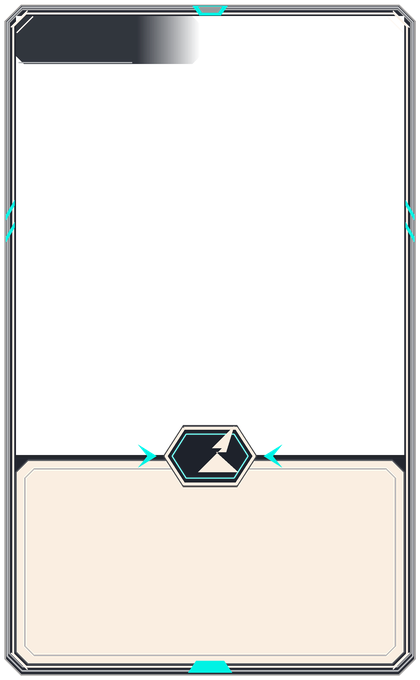
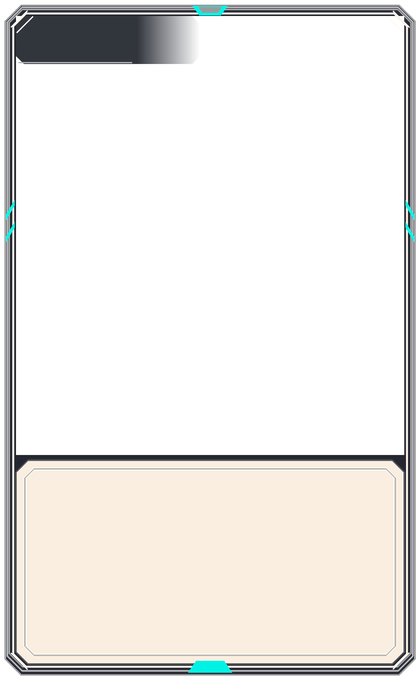
feat(ui): refine card emblems, lock and price badge
验证：Godot 资源导入与实机截图通过，八包商店及图鉴徽记核对通过。卡面 25 项、UI 样式 148 项、卡牌说明 232 项均通过，商店布局和交互专项通过。

Changed region(s): [[0.3405, 0.6176, 0.681, 0.7412]]

diff --git a/tools/gen_card_frame_v3.py b/tools/gen_card_frame_v3.py
@@ -14,7 +14,7 @@
 产出（v3.1 · 2026-11-11 细修）：
   art/2d/ui/ui_card_plate_v3.png     420×680
   art/2d/ui/ui_card_edge_v3_{1,2,3}.png  420×680（三档线宽 = 稀有度第二通道）
-  art/2d/ui/ui_card_cost_v3.png      110×52
+  art/2d/ui/ui_card_cost_v3.png      120×50
   art/2d/ui/ui_card_badge_v3.png     388×40（194×20 逻辑，横线贯穿面板）
   art/_review/card-redesign-baseline-v3.png   基准合成效果图（不含文字进资源）
   art/_review/card-redesign-thumbs-v3.png     10% / 25% 缩略图测试接触表
@@ -29,6 +29,17 @@ UI_DIR = os.path.join(ROOT, "art", "2d", "ui")
 REVIEW_DIR = os.path.join(ROOT, "art", "_review")
 FONT_DIR = os.path.join(ROOT, "assets", "fonts")
 CARD_DIR = os.path.join(ROOT, "art", "2d", "cards")
+CARD_REFERENCE = os.path.join(ROOT, "output", "imagegen", "arrow-card-redesign-preview.png")
+PACK_BADGE_COLORS = {
+    "core": "#54EEE7",
+    "cinder": "#FF8059",
+    "rime": "#65E4F4",
+    "pierce": "#FFD670",
+    "arc": "#AD94FF",
+    "sunder": "#F670A1",
+    "hex": "#62C4B9",
+    "true": "#FF637B",
+}
 
 # ---------------------------------------------------------------------------
 # 色板（design/art/card-redesign-2026-11-11.md §3，唯一来源）
@@ -102,6 +113,20 @@ def down(img, size=(OUT_W, OUT_H)):
     return img.resize(size, Image.LANCZOS)
 
 
+def reference_emblem(bounds, outline, clear_number=False):
+    """提取已确认的 AI 预览元件，裁掉周围插画。"""
+    with Image.open(CARD_REFERENCE) as reference:
+        art = reference.crop(bounds).convert("RGBA")
+    x, y = bounds[:2]
+    mask = Image.new("L", art.size)
+    ImageDraw.Draw(mask).polygon([(px - x, py - y) for px, py in outline], fill=255)
+    if clear_number:
+        # 抹掉示例价格，数字由 Godot 实时绘制。
+        ImageDraw.Draw(art).rectangle((133, 22, 221, 87), fill=(33, 35, 44, 255))
+    art.putalpha(mask)
+    return art
+
+
 # ---------------------------------------------------------------------------
 # 1. 卡框底板：外框 + 分区 + 中缝六边形 + 底部箭头（插画区保持透明）
 # ---------------------------------------------------------------------------
@@ -148,24 +173,45 @@ def gen_plate():
     stroke_poly(d, band, FRAME, 0.8, alpha=195)
     stroke_poly(d, cut_rect(12.4, 234.4, 185.2, 93.2, 4.6), FRAME, 0.6, alpha=90)
 
-    # ---- 7. 中缝六边形徽章（跨分区线）+ 两侧青箭头 ----
-    hx = hex_h(83, 214, 44, 28, 9)
-    fill_poly(d, hex_h(81.5, 212.5, 47, 31, 10), BLACK, alpha=200)  # 暗色垫底，隔开插画
-    fill_poly(d, hx, INK)
-    stroke_poly(d, hx, CREAM, 1.5, alpha=245)
-    stroke_poly(d, hex_h(86, 217, 38, 22, 7), CYAN, 0.6, alpha=140)
-    # 简化箭头（右上方指向）
-    arrow = [(99, 236), (111, 224), (106, 224), (117, 213),
-             (113, 226), (108, 226), (119, 236)]
-    fill_poly(d, arrow, CREAM)
-    # 两侧青箭头（参考图中缝处指向徽章的小箭头）
-    fill_poly(d, [(69.0, 222.2), (78.2, 228.0), (69.0, 233.8), (73.6, 228.0)], CYAN)
-    fill_poly(d, [(141.0, 222.2), (131.8, 228.0), (141.0, 233.8), (136.4, 228.0)], CYAN)
-
-    # ---- 8. 底部青色刻口（参考图跨在「面板下沿 / 框带」之间的梯形）----
+    # ---- 7. 底部青色刻口（参考图跨在「面板下沿 / 框带」之间的梯形）----
     fill_poly(d, [(98.0, 330.4), (112.0, 330.4), (116.0, 336.2), (94.0, 336.2)], CYAN)
     stroke_poly(d, cut_rect(2.5, 2.5, 205, 335, 8), BLACK, 0.5, alpha=120)
     return down(im)
+
+
+def gen_pack_badge(pack_id):
+    """复用预览徽章外壳和游戏内卡包图标，输出 2x 接缝徽记。"""
+    emblem = reference_emblem(
+        (389, 1008, 615, 1107),
+        [(389, 1060), (443, 1010), (553, 1010), (614, 1059),
+         (556, 1105), (451, 1105)],
+    )
+    if pack_id != "core":
+        color = rgba(PACK_BADGE_COLORS[pack_id])
+        for y in range(emblem.height):
+            for x in range(emblem.width):
+                r, g, b, a = emblem.getpixel((x, y))
+                if a and g > r + 35 and b > r + 30:
+                    emblem.putpixel((x, y), (*color[:3], a))
+        ImageDraw.Draw(emblem).polygon(
+            [(75, 11), (157, 11), (170, 29), (152, 87), (65, 87), (52, 67)],
+            fill=rgba(FRAME),
+        )
+        icon_path = os.path.join(ROOT, "art", "2d", "icons", f"ic_pack_{pack_id}_small_v1.png")
+        with Image.open(icon_path) as icon:
+            inset = icon.convert("RGB").crop((16, 16, 48, 48))
+        # 卡包图标的底色本身不透明。用亮度范围保留中央符号及其抗锯齿边缘。
+        alpha = Image.new("L", inset.size)
+        alpha.putdata([max(0, min(255, round((max(pixel) - 65) * 255 / 75)))
+                       for pixel in inset.getdata()])
+        alpha = alpha.crop(alpha.getbbox())
+        ratio = 62 / max(alpha.size)
+        alpha = alpha.resize(tuple(round(side * ratio) for side in alpha.size), Image.LANCZOS)
+        glyph = Image.new("RGBA", alpha.size, color)
+        glyph.putalpha(alpha)
+        emblem.alpha_composite(glyph, ((emblem.width - glyph.width) // 2,
+                                       (emblem.height - glyph.height) // 2))
+    return emblem.resize((98, 44), Image.LANCZOS)
 
 
 def _header_chip(im, d):
@@ -217,29 +263,25 @@ def gen_edge(bw: float = 2):
     w_outer = {1: 1.4, 2: 2.2, 3: 3.2}.get(int(bw), 2.2)
     stroke_poly(d, cut_rect(2.5, 2.5, 205, 335, 8), white, w_outer, alpha=240)
     stroke_poly(d, cut_rect(6.6, 6.6, 196.8, 326.8, 6.4), white, 0.9, alpha=165)
-    stroke_poly(d, hex_h(83, 214, 44, 28, 9), white, 1.0, alpha=225)
+    # 🔴 中缝徽章已改为 AI 生图元件（自带米白描边），描边层不再画六边形：
+    #    否则稀有度色会在徽章外面再套一圈蓝/紫/金，和参考图不符。
     # 底部刻口（梯形）轮廓：与外框同色，供稀有度 / 悬停染色
     stroke_poly(d, [(98.0, 330.4), (112.0, 330.4), (116.0, 336.2), (94.0, 336.2)], white, 0.8, alpha=190)
     return down(im)
 
 
 # ---------------------------------------------------------------------------
-# 3. 费用六边形胶囊（110×52 @2x = 逻辑 55×26，不含数字）
+# 3. 费用角标（120×50 @2x = 逻辑 60×25，不含数字）
 # ---------------------------------------------------------------------------
 def gen_cost():
-    im = new_canvas(55 * U, 26 * U)
-    d = ImageDraw.Draw(im)
-    body = cut_rect(0.8, 0.8, 53.4, 24.4, 6)
-    fill_poly(d, body, INK)
-    stroke_poly(d, body, CREAM, 1.0, alpha=230)
-    # 右下角青色斜切高光
-    fill_poly(d, [(47.5, 24.4), (54.2, 17.7), (54.2, 24.4)], CYAN)
-    fill_poly(d, [(48.0, 1.0), (51.0, 1.0), (54.2, 4.2), (54.2, 7.2)], CYAN, alpha=210)
-    # 废料图标：两块叠放的斜切平行四边形（米白）
-    fill_poly(d, [(8, 15), (14, 9), (21, 9), (15, 15)], CREAM)
-    fill_poly(d, [(8, 15), (15, 15), (21, 9), (21, 18), (14, 24), (8, 24)], CREAM, alpha=225)
-    line(d, (11, 18), (17, 12), INK, 0.8, alpha=170)
-    return down(im, (110, 52))
+    """从预览提取费用角标，输出 120×50，数字由 Godot 绘制。"""
+    emblem = reference_emblem(
+        (689, 37, 960, 150),
+        [(690, 91), (730, 40), (922, 38), (959, 82),
+         (955, 131), (945, 149), (727, 149), (690, 98)],
+        clear_number=True,
+    )
+    return emblem.resize((120, 50), Image.LANCZOS)
 
 
 # ---------------------------------------------------------------------------
@@ -310,24 +352,25 @@ def gen_baseline(plate, edge, cost, badge):
     tint = Image.new("RGBA", e.size, rgba(STEEL))
     tint.putalpha(e.getchannel("A"))
     im.alpha_composite(tint)
+    im.alpha_composite(gen_pack_badge("core"), (round(80.5 * K), 217 * K))
     # 费用胶囊 + 数字
-    im.alpha_composite(cost, (146 * K, 9 * K))
+    im.alpha_composite(cost, (146 * K, 4 * K))
     # 类型徽章（加长横线版：194 宽，从面板左边到右边）
     im.alpha_composite(badge, (8 * K, 270 * K))
 
     d = ImageDraw.Draw(im)
-    # 字号按「箭塔卡面实装说明」：卡名 26–28、类型 13–14、摘要 13–14、费用 22–24
+    # 卡名 28、类型与摘要 14、费用 19，和实机卡面一致。
     f_title = load_font("NotoSansSC.ttf", 28 * K, 900)
     f_type = load_font("NotoSansSC.ttf", 14 * K, 700)
     f_desc = load_font("NotoSansSC.ttf", 14 * K, 500)
-    f_num = load_font("JetBrainsMono.ttf", 24 * K, 700)
+    f_num = load_font("JetBrainsMono.ttf", 19 * K, 700)
     f_small = load_font("JetBrainsMono.ttf", 16 * K, 700)
     text_center(d, (105 * K, 250 * K), "箭塔", f_title, BLACK)
     text_center(d, (105 * K, 279 * K), "建筑 · 泛用", f_type, CREAM)
     # 实机文案取 card_text.describe(nm) 前两行；Arrow = 「单体，无附加／伤害…」
     text_center(d, (105 * K, 302 * K), "单体，无附加", f_desc, BLACK)
     text_center(d, (105 * K, 322 * K), "伤害 12 · 攻速 80%", f_desc, BLACK)
-    text_center(d, (182 * K, 22 * K), "12", f_num, CREAM)
+    text_center(d, (round(187.5 * K), round(16.5 * K)), "12", f_num, CREAM)
     # v3.1：卡面已无编号 01（快捷购买移除），基准图同步去掉
     return im
 
@@ -370,6 +413,8 @@ def main():
     ]
     for bw, img in edges.items():
         outputs.append((os.path.join(UI_DIR, "ui_card_edge_v3_%d.png" % bw), img))
+    for pack_id in PACK_BADGE_COLORS:
+        outputs.append((os.path.join(UI_DIR, f"ui_card_pack_{pack_id}.png"), gen_pack_badge(pack_id)))
     for path, img in outputs:
         img.save(path, "PNG")
         print("WROTE", os.path.relpath(path, ROOT), img.size)

diff --git a/design/art/card-redesign-2026-11-11.md b/design/art/card-redesign-2026-11-11.md
@@ -332,3 +332,58 @@ v3.1：`size_flags_horizontal = SIZE_FILL`（固定 210）+ `slots_row.alignment
   `cards-spec-b.png`（长枪塔 / 湮灭塔 / 咒术塔：长卡名 + 两行摘要）、`cards-spec-hover.png`。
 - 1920×1080 设计分辨率出图；`shop_overlay` / `shop_interaction` / `ui_style`（147 项）/
   `card_spec`（20 项）全绿；默认全量回归见 handoff。
+
+## 12. v3.4 · 两个元件改走 AI 生图（2026-11-11，用户口径）
+
+> 用户：「我用红线圈出中心和右上角的样式都不对，重新修改」→「用 AI 生图去做，不要程序化出图」。
+> 结论：**中缝徽章与费用角标不再用多边形绘制**，改为 AI 生图 → 抠图 → 裁边 → 按坐标合成。
+
+### 12.1 产线（`tools/ai_badge_postprocess.py`）
+
+1. **生成**：ImageGen，纯品红底（生成器实际输出带暗角的品红 ≈ 230,20,90），
+   1024² / 1536×1024，prompt 用 §2 风格锚点 + 主体描述 + 画布 + 技术约束四段；
+2. **抠图**：按色相判底（`r>135, g<100, 40<b<205, r-g>85`）转透明，硬边；
+3. **裁边**：按 alpha bbox trim；
+4. **合成**：`tools/gen_card_frame_v3.py::paste_ai()` 等比缩放后 alpha_composite 进 8x 超采样画布；
+5. **双版本**：纯色底版留在 `output/imagegen/*_solid.png`（可复核），透明底版进 `art/2d/ui/ai/`。
+
+生成时底部 15% 先裁掉——生成器在右下角压了「AI生成」水印，白字会让抠图出脏边。
+
+### 12.2 元件与几何
+
+| 元件 | 文件 | 生成图 | 逻辑尺寸 / 位置 |
+|---|---|---|---|
+| 中缝徽章 | `art/2d/ui/ai/ui_card_center_badge_ai_v1.png` | 691×344 → 58×29 | (76, 209.6) 中心 (105, 224)，跨分区线 |
+| 费用角标 | `art/2d/ui/ai/ui_card_cost_capsule_ai_v2.png` | 1217×526 → 58×26 | (143, 9)，右端尖角 201 |
+
+- **费用角标从 55×26 放宽到 58×26**：AI 元件比例 2.314，比 55:26 更扁宽；
+  按宽度贴合、**不拉扁**（拉扁会让米白描边粗细不均）。数字框同步右移到 (168,9,30,26)。
+- **费用数字 24→22px**（仍在实装说明 22–24 区间）：AI 元件左三分之一是废料锭，
+  24px 的「12」会压到锭子上。
+- **卡名 229→233、类型条 265→267**：徽章换成 AI 元件后底部更低，需要给卡名让 4px。
+- **`ui_card_edge_v3_*.png` 去掉六边形描边**：AI 徽章自带米白描边，
+  描边层再画一次会被稀有度 `modulate` 染成蓝/紫/金，套在徽章外面撞色。
+
+### 12.3 生成记录（旧版不删）
+
+| 张 | 用途 | 结果 |
+|---|---|---|
+| 徽章 v1 | 正式采用 | 六边形 + 双侧青色粗括号 + 右上箭头，括号与本体相连 |
+| 徽章 v2 | 备选（未用） | 更干净的细描边与长箭头，但括号与六边形脱开 4px，缩小后像浮标 |
+| 角标 v1 | 备选（未用） | 金属锭立体感最好，但整体偏大压住数字 |
+| 角标 v2 | 正式采用 | 锭子收到左三分之一、右侧留白、青色梯形在右下斜边 |
+
+> 提示词纪律：风格锚点逐字复用，一次只改一个变量（版式槽位）；同一提示词不重试超过 3 次。
+
+### 12.4 验收
+
+- 默认全量回归 **exit 0**（`output/regress-ai-badges.log`），`card_spec` 20 项 / `ui_style` 147 项 /
+  `shop_overlay` 全绿；
+- 出图 `output/imagegen/cards-spec-a.png` / `-b.png` 与参考图并排比对（`output/_compare3.png`）。
+
+### 13. 当前卡面实装
+
+- 费用角标取自已确认的[箭塔预览图](../../output/imagegen/arrow-card-redesign-preview.png)。商店使用 60 × 25 px 的角标，费用数字以 19 px 动态绘制。
+- 插画与信息区之间使用 49 × 22 px 的独立徽记。泛用包沿用预览箭头，其余七包使用各自的图标和包色。商店与图鉴共享徽记资源，商店刷新时随商品更新。
+- 左上角锁头使用切角底板，以米白开锁和金色闭锁区分状态。箭塔的一行摘要为「向单个敌人射箭」。
+- 当前贴图由 `tools/gen_card_frame_v3.py` 生成。第 12 节记录了此前的元件试稿。
